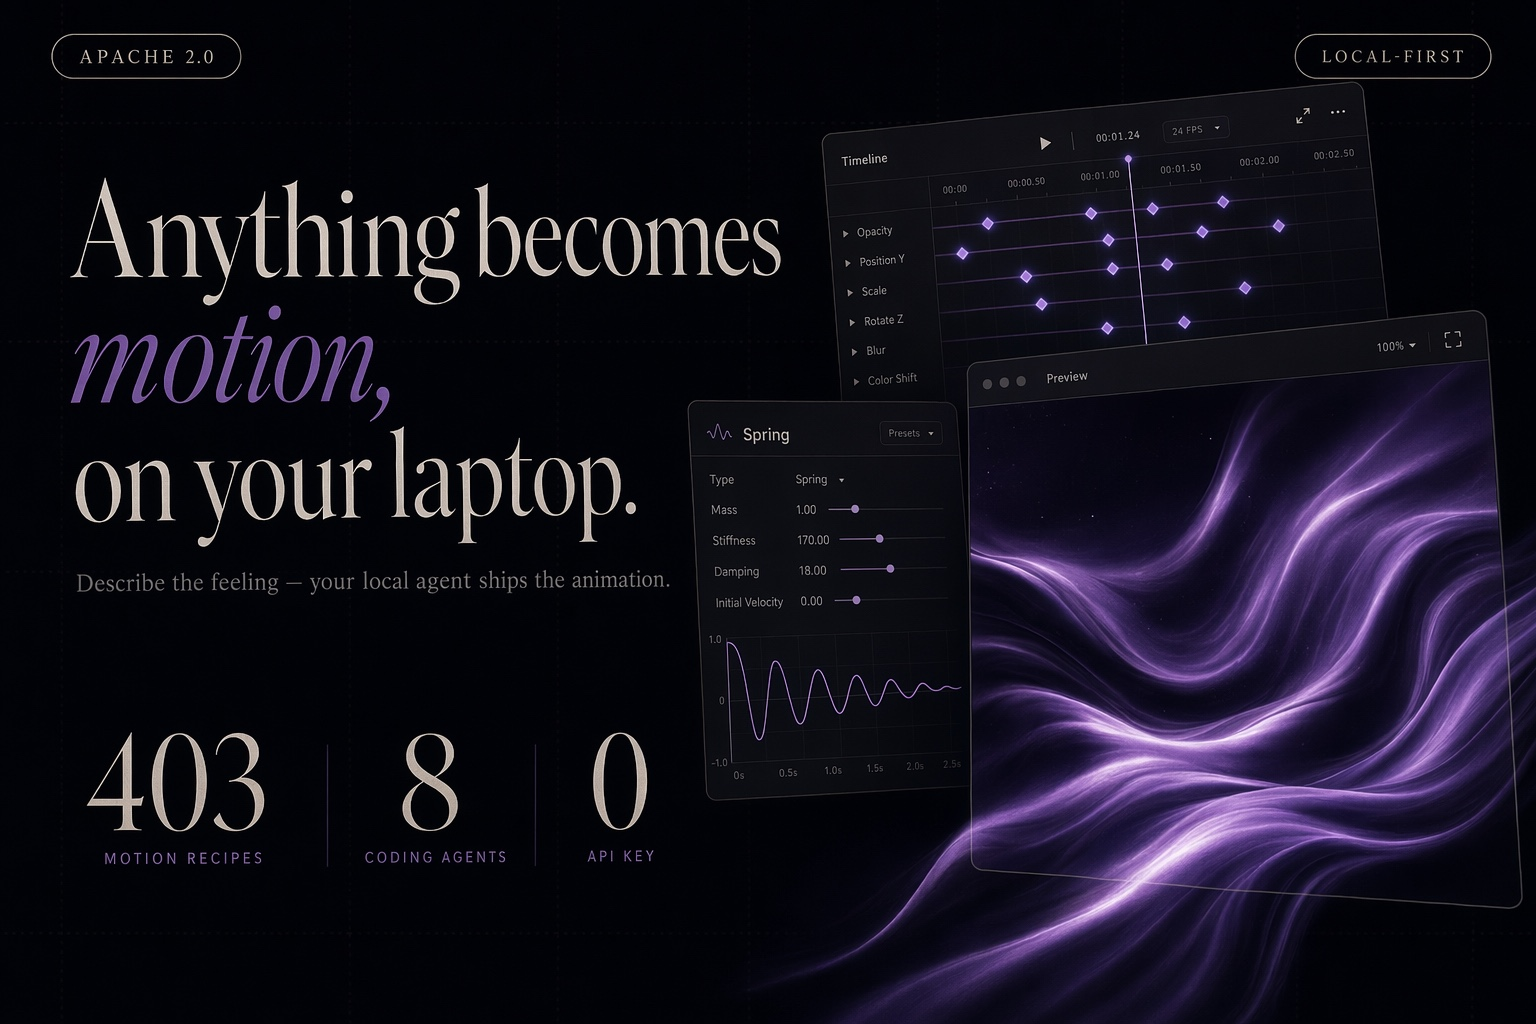
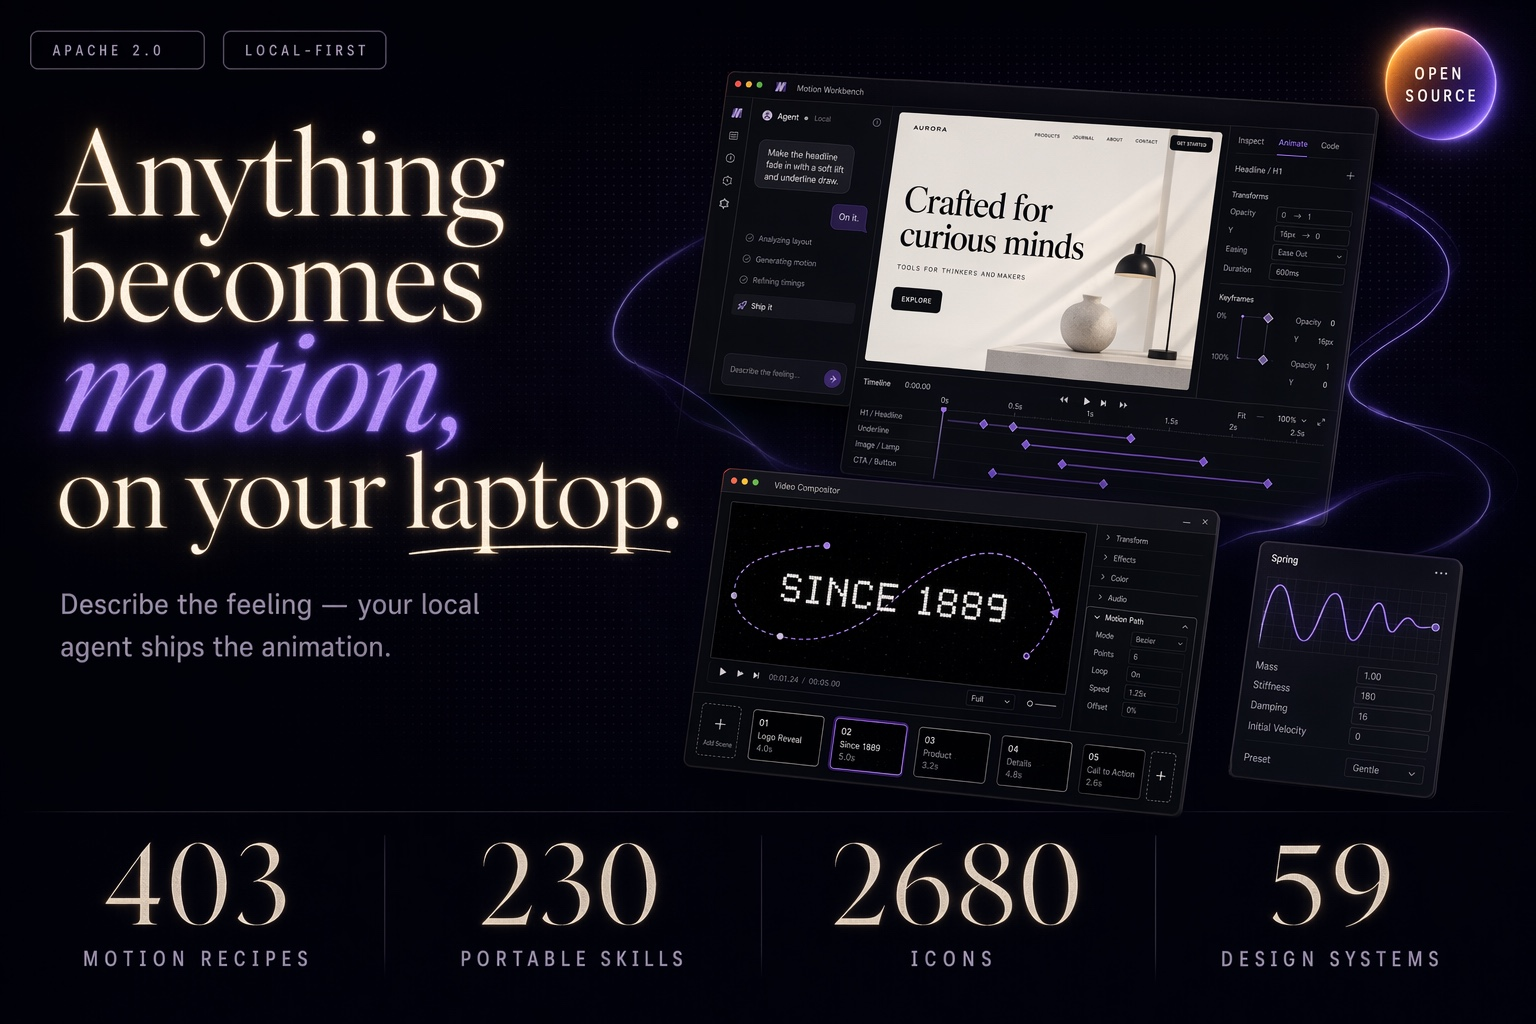
docs(readme): hero v3 — brighter manifesto type, integration stats, both editors visible
Per feedback on the previous banner: typography is now high-contrast and
luminous (the dim serif was the main complaint), the stats row swaps
'0 API key' for the integration numbers that actually differentiate the
library (403 motion recipes / 230 portable skills / 2,680 icons / 59 design
systems), and the right side now shows BOTH product lines as app windows —
the component-motion workbench on a running page and the launch-video
compositor (retro 'SINCE 1889' canvas echoing the real demo project) — plus
a spring-parameter card, in the html-anything cover-collage style.

diff --git a/README.md b/README.md
@@ -5,7 +5,7 @@
 > **Describe the feeling — your AI ships the animation.** The agentic motion layer: a local-first, chat-native motion engine. Generate animated pages and launch videos from one sentence, then edit motion **on the running page, component by component** — 4 triggers, 13 motion verbs, spring easing, a full keyframe editor. Driven by **8 coding-agent engines + BYOK** (Claude Code · Codex · Cursor · OpenCode · Grok Build · Hermes · Gemini · Open Design Cloud), armed with **403 curated motion recipes**, and exported to anything: JSON · CSS · React · Lottie · MP4 · GIF · portable skills. Zero npm dependencies. No watermark. No per-render fees.
 
 <p align="center">
-  <img src="docs/assets/hero.jpg" alt="motion-anything — Anything becomes motion, on your laptop. Editorial dark banner with floating motion-editor cards and purple silk light ribbons; 403 motion recipes, 8 coding agents, 0 API key." width="100%" />
+  <img src="docs/assets/hero.jpg" alt="motion-anything — Anything becomes motion, on your laptop. Editorial dark banner: a component-motion workbench window and a launch-video compositor window, with a stats row — 403 motion recipes, 230 portable skills, 2,680 icons, 59 design systems." width="100%" />
 </p>
 
 <p align="center">

diff --git a/README.zh-CN.md b/README.zh-CN.md
@@ -5,7 +5,7 @@
 > **描述感觉，AI 交付动画。** agentic motion layer（智能体动效层）：本地优先、对话原生的动效引擎。一句话生成动效网页和 launch 视频，然后**在跑着的页面上逐组件编辑动效** —— 4 种触发、13 个动法、弹簧缓动、完整关键帧编辑器。**8 个编码 agent 引擎 + BYOK** 随便换（Claude Code · Codex · Cursor · OpenCode · Grok Build · Hermes · Gemini · Open Design Cloud），**403 个策展动效配方**弹药充足，产物随处可去：JSON · CSS · React · Lottie · MP4 · GIF · 可移植 skill。零 npm 依赖，无水印，无按次渲染收费。
 
 <p align="center">
-  <img src="docs/assets/hero.jpg" alt="motion-anything — Anything becomes motion, on your laptop. Editorial dark banner with floating motion-editor cards and purple silk light ribbons; 403 motion recipes, 8 coding agents, 0 API key." width="100%" />
+  <img src="docs/assets/hero.jpg" alt="motion-anything —— Anything becomes motion, on your laptop。杂志宣言风深色头图：HTML 组件动效工作台与视频合成器双窗口，底部数字行 —— 403 动效配方、230 可移植 skill、2680 图标、59 设计系统。" width="100%" />
 </p>
 
 <p align="center">